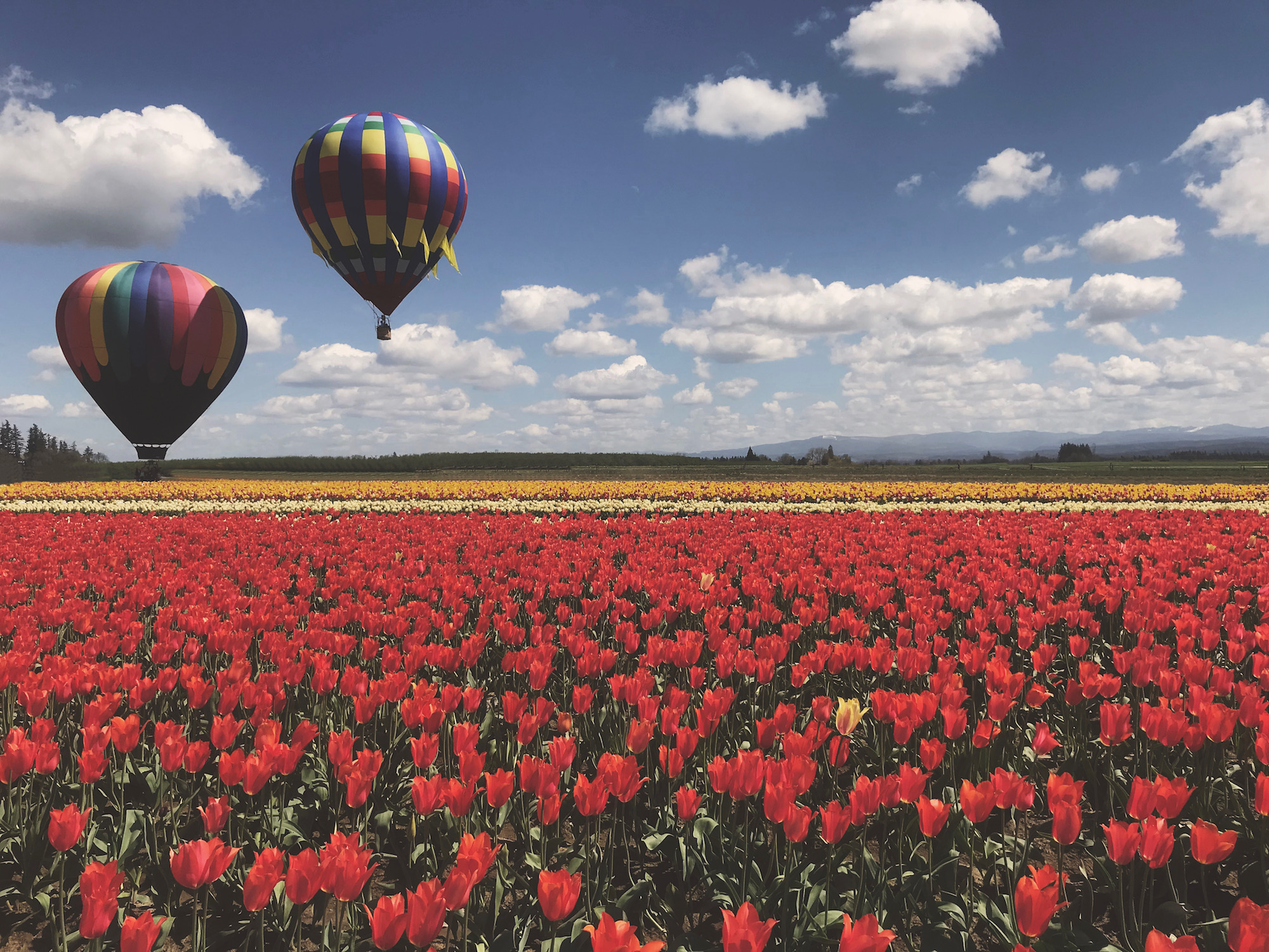
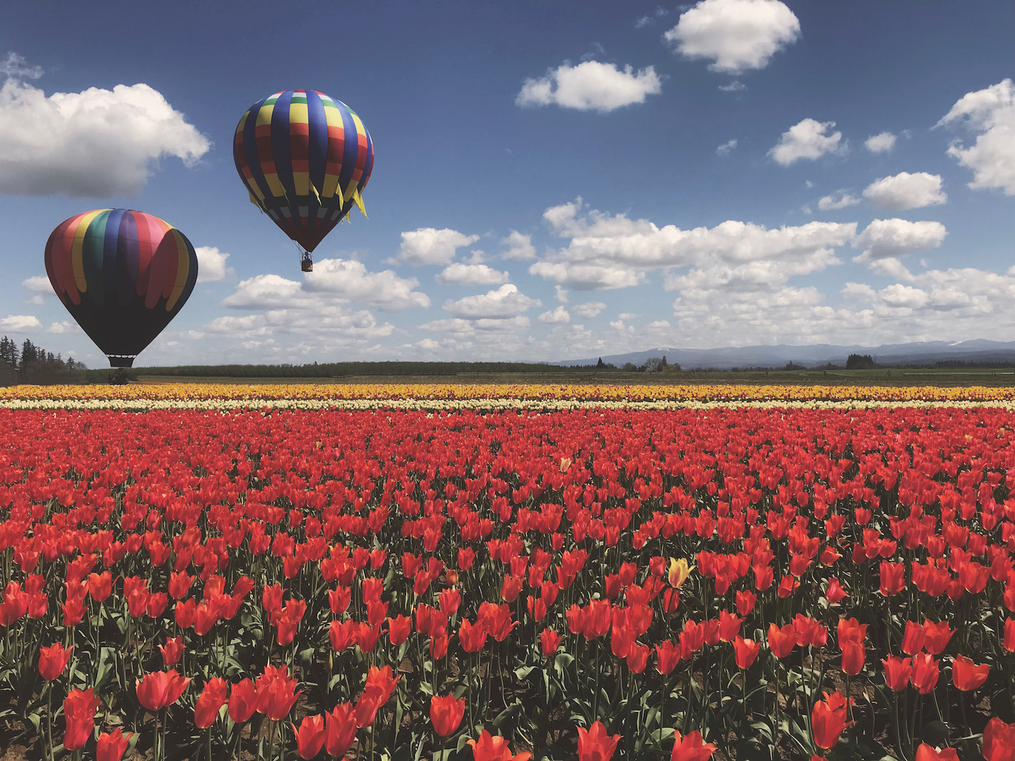
Updated code based on feedback
• Reduced background image size
• Changed profile image transition time
• Changed profile image border styling
• Added target="_blank" to social links

diff --git a/index.html b/index.html
@@ -44,8 +44,8 @@
     </main>
     <footer>
       <ul>
-        <li><a href="https://www.linkedin.com/in/mackenziesteele/" class="social linkedin">LinkedIn</a></li>
-        <li><a href="https://github.com/mackenzie-steele" class="social github">Github</a></li>
+        <li><a href="https://www.linkedin.com/in/mackenziesteele/" target="_blank" class="social linkedin">LinkedIn</a></li>
+        <li><a href="https://github.com/mackenzie-steele" target="_blank" class="social github">Github</a></li>
       </ul>
       <p class="copyright">© 2018 Mackenzie Steele</p>
     </footer>

diff --git a/styles.css b/styles.css
@@ -71,11 +71,11 @@ header .profile-image {
   width: 150px;
   height: 150px;
   border-radius: 50%;
-  border: 3px solid white;
-  transition: all .5s;
+  border: 2px dashed white;
+  transition: all 1s;
 }
 header .profile-image:hover {
-  transform: scale(1.2) rotate(360deg);
+  transform: scale(1.1) rotate(360deg);
 }
 .tag {
   background-color: #efefef;
